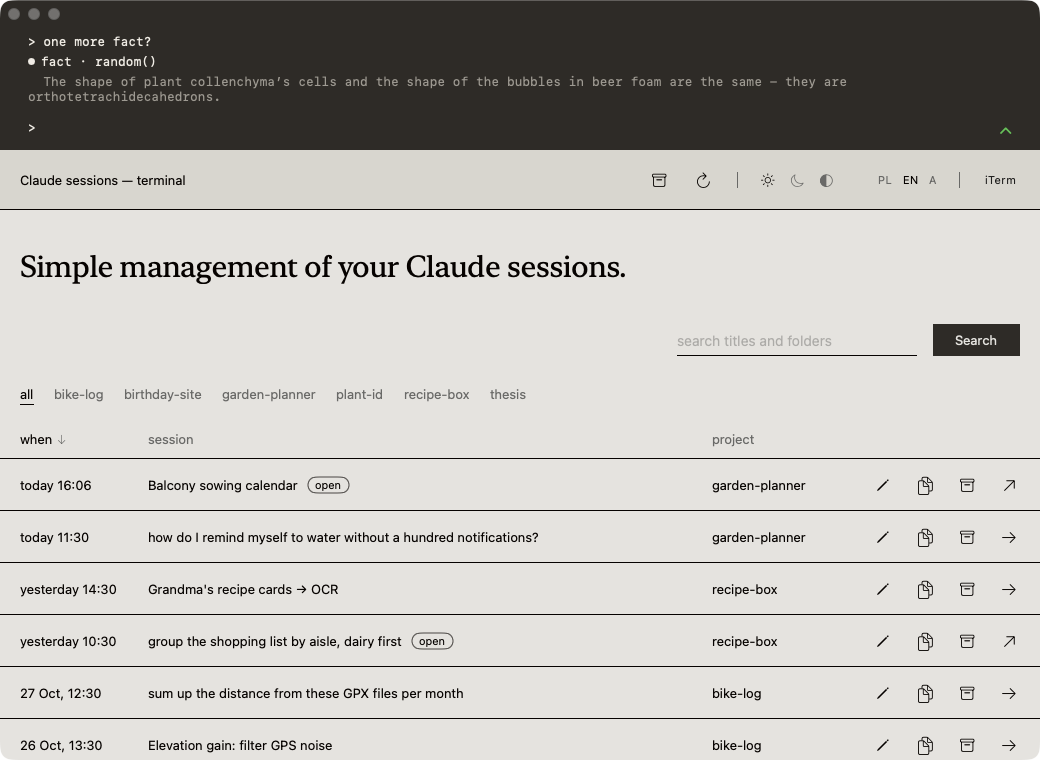
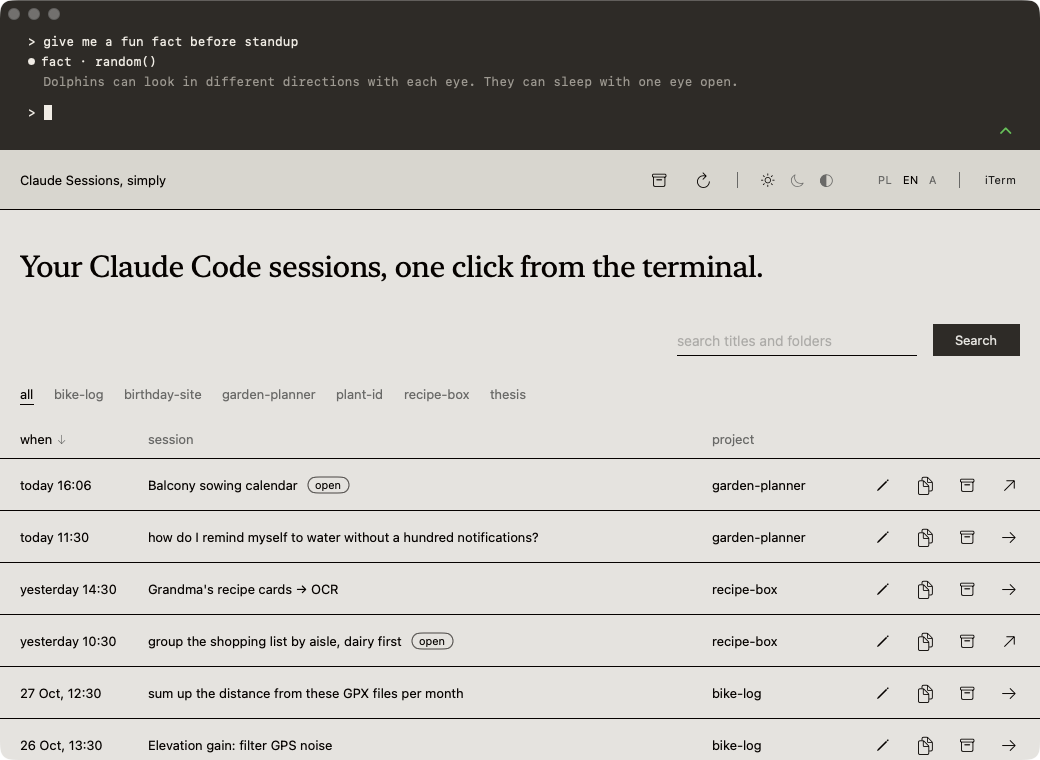
Nazwa: Claude Sessions, simply; wersja 0.2; nowe zrzuty
Claude-Session: https://claude.ai/code/session_01F5xvReGX5QCSigsdgTt5gA

diff --git a/Sources/ClaudeSessions/Strings.swift b/Sources/ClaudeSessions/Strings.swift
@@ -13,7 +13,7 @@ enum L {
 
     static func t(_ pl: String, _ en: String) -> String { isPolish ? pl : en }
 
-    static var appTitle: String { t("Sesje Claude — terminal", "Claude sessions — terminal") }
+    static var appTitle: String { t("Sesje Claude, po prostu", "Claude Sessions, simply") }
     static var archive: String { t("Archiwum", "Archive") }
     static var backToActive: String { t("Wróć do aktywnych", "Back to active") }
     static var refresh: String { t("Odśwież", "Refresh") }
@@ -21,7 +21,7 @@ enum L {
     static var dark: String { t("Ciemny motyw", "Dark theme") }
     static var system: String { t("Motyw jak w systemie", "Match the system") }
     static var language: String { t("Język: polski / angielski / jak w systemie", "Language: Polish / English / system") }
-    static var intro: String { t("Proste zarządzanie Twoimi sesjami Claude.", "Simple management of your Claude sessions.") }
+    static var intro: String { t("Twoje sesje Claude Code, jedno kliknięcie od terminala.", "Your Claude Code sessions, one click from the terminal.") }
     static var introArchive: String {
         t("Archiwum. Rozmowy zostają na dysku, możesz je przywrócić.",
           "Archive. Conversations stay on disk, you can restore them.")

diff --git a/README.md b/README.md
@@ -1,4 +1,4 @@
-# Claude sessions · Sesje Claude
+# Claude Sessions, simply · Sesje Claude, po prostu
 
 **A small macOS window that lists your Claude Code sessions and reopens any of them in your terminal.**
 Free, open source, no account, no telemetry. Polish and English, light and dark.
